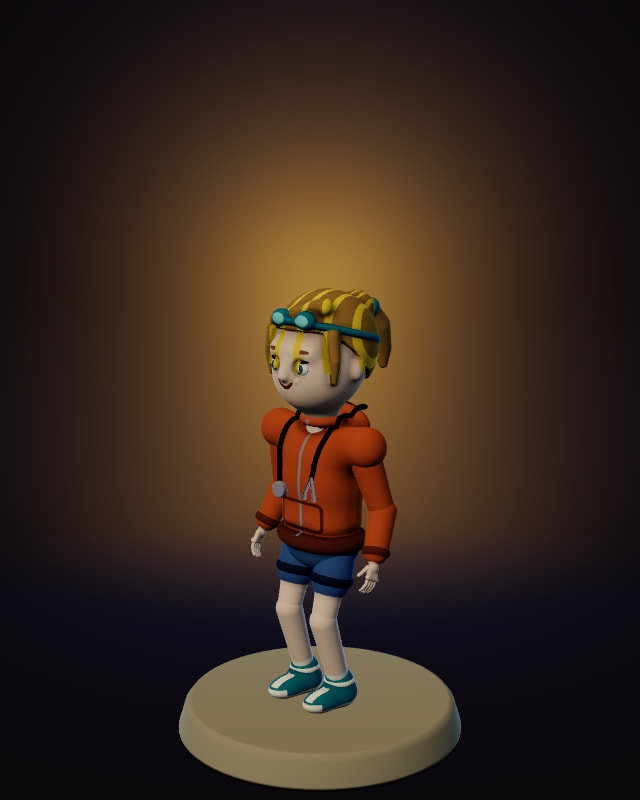
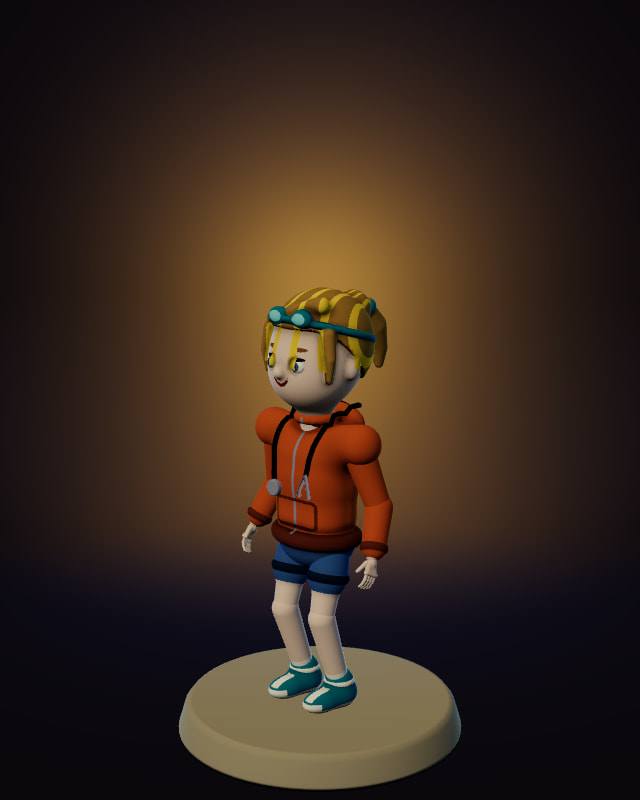
art(betrayal): Missy's face kept simple, and only gestures that read from the house
Her face drops the brow ridge, sculpted nose and chin, and freckles for
the smooth children's face Zoe has. The pulse-taking gesture is cut: from
the house camera it read as checking a watch. Her stretch opens to a wide
Y so both arms show from the house's angle. Portrait re-shot.

Changed region(s): [[0.375, 0.3438, 0.625, 0.8125]]

diff --git a/src/projects/betrayal/art/explorers/missy.ts b/src/projects/betrayal/art/explorers/missy.ts
@@ -4,8 +4,8 @@ import { animated } from "../animate";
 import { ball, chain, drum, ellipsoid, figureMaterial, form, loft, mergeAll, onSurface, plinth, ring, rod, roundBox, sculpt, stretched, type Distance, type Section, type Solid, type Vec3 } from "../forms";
 import { group } from "../shapes";
 import { BASE_TOP, idleBursts, joins, leg, legJoints, miniatureHeight, soleEnds, STANDING, stride, walks, type Gait, type StrideRig, type Walking } from "./figure";
-import { aimGrip, between, blendPose, buildArm, fist, handParts, hasHands, holding, OPEN, poseArm, poseHand, pointHand, reachWrist, RELAXED, type Arm, type ArmPose, type HandPose } from "./hands";
-import { skinOf, skinShade } from "./skin";
+import { aimGrip, between, blendPose, buildArm, fist, handParts, hasHands, holding, OPEN, poseArm, poseHand, pointHand, reachWrist, RELAXED, type Arm, type ArmPose } from "./hands";
+import { skinOf } from "./skin";
 import { declareParts, figureParts } from "../figure-parts";
 
 /*
@@ -69,18 +69,16 @@ function above(solid: Solid): Solid {
   };
 }
 
-/** The head on its neck: a big round head with a soft chin, a brow and a
- *  small nose that catch the light, blue eyes (white, an iris and a glint)
- *  under fair brows, a few freckles and a smile; her honey hair pulled
+/** The head on its neck: a big round head with full cheeks and a small
+ *  button nose, kept smooth and simple as the other children's, blue eyes
+ *  (white, an iris and a glint) under fair brows, and a smile; her honey hair pulled
  *  smoothly back to a high tie, and teal swim goggles pushed up on top. */
 function head(): THREE.BufferGeometry {
   const shape = sculpt()
     .add(rod([0, -0.04, 0], [0, 0.06, 0], 0.038, 0.036), SKIN)
     .add(ellipsoid([0, 0.16, 0], [0.117, 0.125, 0.118]), SKIN, 0.03)
     .add(ellipsoid([0, 0.098, 0.028], [0.094, 0.085, 0.094]), SKIN, 0.05)
-    .add(ball([0, 0.07, 0.066], 0.026), SKIN, 0.04)
-    .add(rod([-0.056, 0.166, 0.1], [0.056, 0.166, 0.1], 0.014), SKIN, 0.025)
-    .add(rod([0, 0.142, 0.119], [0, 0.108, 0.13], 0.009, 0.014), SKIN, 0.012);
+    .add(ball([0, 0.11, 0.13], 0.015), SKIN, 0.012);
   for (const side of [-1, 1]) {
     shape.add(ellipsoid([side * 0.116, 0.125, 0], [0.015, 0.028, 0.02]), SKIN, 0.01);
     shape.carve(ball([side * 0.042, 0.13, 0.124], 0.02), { blend: 0.008 });
@@ -91,10 +89,6 @@ function head(): THREE.BufferGeometry {
     // Dark lashes along the top of each eye.
     shape.paint(ellipsoid([side * 0.044, 0.145, 0.118], [0.022, 0.0042, 0.02]), "soot");
     shape.paint(ellipsoid([side * 0.044, 0.168, 0.112], [0.022, 0.005, 0.03]), "woodLight");
-  }
-  // A few freckles across her nose and cheeks.
-  for (const [x, y] of [[0.026, 0.108], [0.044, 0.1], [0.034, 0.091], [0.056, 0.107]]) {
-    for (const side of [-1, 1]) shape.paint(ball(onSurface(shape.distance, [side * x, y, 0.12]), 0.0045), skinShade(SKIN));
   }
   shape
     // A small smile, curving up at its corners.
@@ -288,8 +282,6 @@ export const MISSY_PARTS = figureParts("missy", meshParts);
 declareParts(missy, [MISSY_PARTS]);
 
 const UP = new THREE.Vector3(0, 1, 0);
-/** Two fingers out, the others curled: feeling for a pulse. */
-const TWO_FINGERS: HandPose = { knuckles: [0.25, 0.3, 0.2], thumb: 0.5 };
 
 const smooth = THREE.MathUtils.smoothstep;
 /** A bump easing up from 0 to 1 between `a` and `b`, holding, and back down between `c` and `d`. */
@@ -297,12 +289,10 @@ const bump = (t: number, a: number, b: number, c: number, d: number) => smooth(t
 
 /** Missy Dubourde as a miniature on a round base, 4'2" at the house's scale.
  *  She breathes and shifts from foot to foot; now and then she stretches
- *  both arms high, like a swimmer on the blocks; now and then she lifts her
- *  wrist and takes her own pulse with two fingers, counting with little nods,
- *  as a doctor would; and now and then she starts back, fists to her chest,
+ *  both arms high, like a swimmer on the blocks; and now and then she starts back, fists to her chest,
  *  staring at the floor as if something there had stirred, and glances over
  *  her shoulder. She walks with a quick, light step. Her right hand is free
- *  to hold anything; the stretch and the pulse wait while it does. */
+ *  to hold anything; the stretch waits while it does. */
 export function missy(seed = "missy", gait: Gait = STANDING): THREE.Group {
   const parts = MISSY_PARTS.get();
   const material = figureMaterial();
@@ -340,7 +330,7 @@ export function missy(seed = "missy", gait: Gait = STANDING): THREE.Group {
   // The stretch: both arms straight up in a V, fingers to the ceiling.
   const stretches = (of: Arm) => {
     const side = of.hand.side;
-    return pointHand(reachWrist(of, new THREE.Vector3(side * 0.235, 0.515, 0.03), new THREE.Vector3(side, 0, -0.3)), new THREE.Vector3(side * 0.35, 1, 0.05));
+    return pointHand(reachWrist(of, new THREE.Vector3(side * 0.29, 0.49, 0), new THREE.Vector3(side, 0, -0.3)), new THREE.Vector3(side * 0.6, 1, 0));
   };
   const rightStretches = stretches(right);
   const leftStretches = stretches(left);
@@ -351,9 +341,6 @@ export function missy(seed = "missy", gait: Gait = STANDING): THREE.Group {
   /** An arm from `rest` up into the stretch, `amount` of the way: out to the side, then up. */
   const raised = (rest: ArmPose, spread: ArmPose, up: ArmPose, amount: number) =>
     amount < 0.5 ? between(rest, spread, amount * 2) : between(spread, up, amount * 2 - 1);
-  // The pulse: her left wrist lifted before her chest, palm up, and two fingers of her right laid on it.
-  const leftOffers = pointHand(reachWrist(left, new THREE.Vector3(0.05, 0.11, 0.175), new THREE.Vector3(1, -1, -0.2)), new THREE.Vector3(-0.55, 0.05, 1), -Math.PI / 2);
-  const rightFeels = pointHand(reachWrist(right, new THREE.Vector3(-0.045, 0.16, 0.2), new THREE.Vector3(-1, -0.6, -0.3)), new THREE.Vector3(1, -0.45, 0.15), Math.PI / 2);
   // Startled, she draws both fists to her chest.
   const cowers = (of: Arm) => reachWrist(of, new THREE.Vector3(of.hand.side * 0.06, 0.165, 0.16), new THREE.Vector3(of.hand.side, -1, -0.3));
   const rightCowers = cowers(right);
@@ -402,8 +389,7 @@ export function missy(seed = "missy", gait: Gait = STANDING): THREE.Group {
   const offset = rng.next() * 100;
   const bursts = idleBursts(figure, seed, offset, {
     risen: { every: 10, lasts: 2.8, chance: 0.5 },
-    stretch: { every: 11, lasts: 3.2, chance: 0.55 },
-    pulse: { every: 13, lasts: 3.8, chance: 0.6 },
+    stretch: { every: 12, lasts: 3.2, chance: 0.55 },
   });
 
   return animated(figure, (clock) => {
@@ -414,14 +400,12 @@ export function missy(seed = "missy", gait: Gait = STANDING): THREE.Group {
     const breath = Math.sin((seconds / 3.2) * Math.PI * 2 + breathPhase);
     const sway = Math.sin((seconds / 4.2) * Math.PI * 2 + swayPhase);
 
-    const { risen, stretch, pulse } = bursts(clock);
+    const { risen, stretch } = bursts(clock);
     const held = right.hand.held;
     const upright = held?.carry === "upright";
     const fear = risen.amount * (1 - running);
     const calm = 1 - fear;
     const reaching = held ? 0 : still * calm * stretch.amount;
-    // One gesture at a time: a pulse that comes round mid-stretch waits for the stretch to end.
-    const feeling = held ? 0 : still * calm * pulse.amount * (1 - stretch.amount);
 
     // Startled, she stares down at the floor ahead, then glances back over her shoulder.
     const r = risen.progress;
@@ -438,23 +422,19 @@ export function missy(seed = "missy", gait: Gait = STANDING): THREE.Group {
     left.shoulder.position.y = left.at.y + lift;
     right.shoulder.position.y = right.at.y + lift;
 
-    // Counting her pulse, she watches her wrist and nods to the beat.
-    const p = pulse.progress;
-    const counting = feeling * bump(p, 0.2, 0.3, 0.8, 0.88);
-    const nod = Math.max(0, Math.sin(p * Math.PI * 16)) * counting;
-    neck.rotation.x = feeling * 0.32 + nod * 0.06 + stare * 0.38 - reaching * 0.22 - 0.03;
-    neck.rotation.y = feeling * 0.22 + glance * 0.85;
+    neck.rotation.x = stare * 0.38 - reaching * 0.22 - 0.03;
+    neck.rotation.y = glance * 0.85;
     neck.rotation.z = sway * -0.02 * calm;
 
     const rightRests = upright ? rightCarries : held ? rightHolds : rightHangs;
-    const rightPose = between(between(raised(rightRests, rightSpreads, rightStretches, reaching), rightFeels, feeling), rightCowers, held ? 0 : fear);
-    const leftPose = between(between(raised(leftHangs, leftSpreads, leftStretches, reaching), leftOffers, feeling), leftCowers, fear);
+    const rightPose = between(raised(rightRests, rightSpreads, rightStretches, reaching), rightCowers, held ? 0 : fear);
+    const leftPose = between(raised(leftHangs, leftSpreads, leftStretches, reaching), leftCowers, fear);
     poseArm(right, rightPose, rightPose, 1);
     poseArm(left, leftPose, leftPose, 1);
     const clench = Math.max(running * 0.7, fear);
-    const rightEmpty = blendPose(blendPose(blendPose(RELAXED, fist(right.hand), clench), OPEN, reaching), TWO_FINGERS, feeling);
+    const rightEmpty = blendPose(blendPose(RELAXED, fist(right.hand), clench), OPEN, reaching);
     poseHand(right.hand, holding(right.hand, rightEmpty));
-    poseHand(left.hand, blendPose(blendPose(RELAXED, fist(left.hand), clench), OPEN, Math.max(reaching, feeling * 0.7)));
+    poseHand(left.hand, blendPose(blendPose(RELAXED, fist(left.hand), clench), OPEN, reaching));
     swings.right.swing = upright ? ARM_SWING * 0.2 : ARM_SWING;
     swings.right.pump = held ? 0.4 : 1;
 
